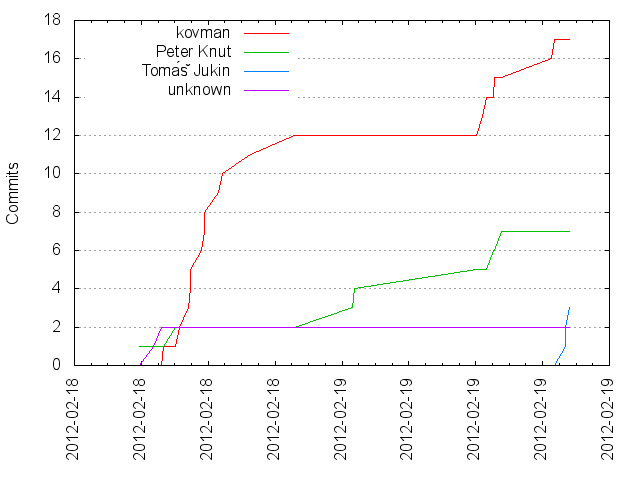
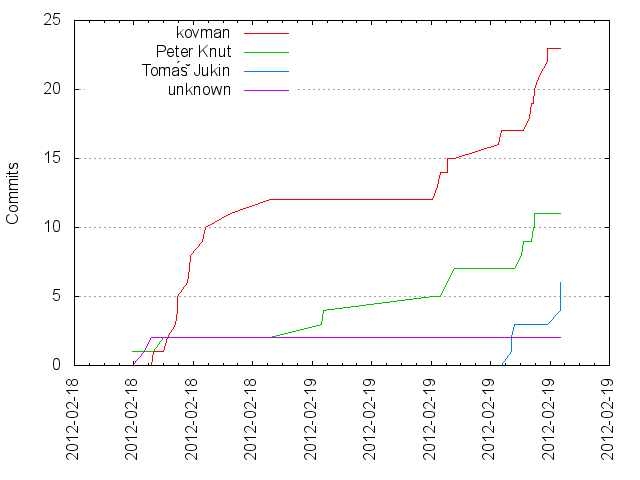
Generated git repository statistics

diff --git a/GADCPrague_stats/activity.html b/GADCPrague_stats/activity.html
@@ -4,7 +4,7 @@
 <head>
 	<title>GitStats - SuportaMasta</title>
 	<link rel="stylesheet" href="gitstats.css" type="text/css" />
-	<meta name="generator" content="GitStats 52a71b8" />
+	<meta name="generator" content="GitStats e5adfd1" />
 	<script type="text/javascript" src="sortable.js"></script>
 </head>
 <body>
@@ -22,27 +22,27 @@
 
 <h2><a href="#weekly_activity" name="weekly_activity">Weekly activity</a></h2>
 
-<p>Last 32 weeks</p><table class="noborders"><tr><td style="text-align: center; vertical-align: bottom">0<div style="display: block; background-color: red; width: 20px; height: 1px"></div></td><td style="text-align: center; vertical-align: bottom">0<div style="display: block; background-color: red; width: 20px; height: 1px"></div></td><td style="text-align: center; vertical-align: bottom">0<div style="display: block; background-color: red; width: 20px; height: 1px"></div></td><td style="text-align: center; vertical-align: bottom">0<div style="display: block; background-color: red; width: 20px; height: 1px"></div></td><td style="text-align: center; vertical-align: bottom">0<div style="display: block; background-color: red; width: 20px; height: 1px"></div></td><td style="text-align: center; vertical-align: bottom">0<div style="display: block; background-color: red; width: 20px; height: 1px"></div></td><td style="text-align: center; vertical-align: bottom">0<div style="display: block; background-color: red; width: 20px; height: 1px"></div></td><td style="text-align: center; vertical-align: bottom">0<div style="display: block; background-color: red; width: 20px; height: 1px"></div></td><td style="text-align: center; vertical-align: bottom">0<div style="display: block; background-color: red; width: 20px; height: 1px"></div></td><td style="text-align: center; vertical-align: bottom">0<div style="display: block; background-color: red; width: 20px; height: 1px"></div></td><td style="text-align: center; vertical-align: bottom">0<div style="display: block; background-color: red; width: 20px; height: 1px"></div></td><td style="text-align: center; vertical-align: bottom">0<div style="display: block; background-color: red; width: 20px; height: 1px"></div></td><td style="text-align: center; vertical-align: bottom">0<div style="display: block; background-color: red; width: 20px; height: 1px"></div></td><td style="text-align: center; vertical-align: bottom">0<div style="display: block; background-color: red; width: 20px; height: 1px"></div></td><td style="text-align: center; vertical-align: bottom">0<div style="display: block; background-color: red; width: 20px; height: 1px"></div></td><td style="text-align: center; vertical-align: bottom">0<div style="display: block; background-color: red; width: 20px; height: 1px"></div></td><td style="text-align: center; vertical-align: bottom">0<div style="display: block; background-color: red; width: 20px; height: 1px"></div></td><td style="text-align: center; vertical-align: bottom">0<div style="display: block; background-color: red; width: 20px; height: 1px"></div></td><td style="text-align: center; vertical-align: bottom">0<div style="display: block; background-color: red; width: 20px; height: 1px"></div></td><td style="text-align: center; vertical-align: bottom">0<div style="display: block; background-color: red; width: 20px; height: 1px"></div></td><td style="text-align: center; vertical-align: bottom">0<div style="display: block; background-color: red; width: 20px; height: 1px"></div></td><td style="text-align: center; vertical-align: bottom">0<div style="display: block; background-color: red; width: 20px; height: 1px"></div></td><td style="text-align: center; vertical-align: bottom">0<div style="display: block; background-color: red; width: 20px; height: 1px"></div></td><td style="text-align: center; vertical-align: bottom">0<div style="display: block; background-color: red; width: 20px; height: 1px"></div></td><td style="text-align: center; vertical-align: bottom">0<div style="display: block; background-color: red; width: 20px; height: 1px"></div></td><td style="text-align: center; vertical-align: bottom">0<div style="display: block; background-color: red; width: 20px; height: 1px"></div></td><td style="text-align: center; vertical-align: bottom">0<div style="display: block; background-color: red; width: 20px; height: 1px"></div></td><td style="text-align: center; vertical-align: bottom">0<div style="display: block; background-color: red; width: 20px; height: 1px"></div></td><td style="text-align: center; vertical-align: bottom">0<div style="display: block; background-color: red; width: 20px; height: 1px"></div></td><td style="text-align: center; vertical-align: bottom">0<div style="display: block; background-color: red; width: 20px; height: 1px"></div></td><td style="text-align: center; vertical-align: bottom">0<div style="display: block; background-color: red; width: 20px; height: 1px"></div></td><td style="text-align: center; vertical-align: bottom">29<div style="display: block; background-color: red; width: 20px; height: 200px"></div></td></tr><tr><td>32</td><td>31</td><td>30</td><td>29</td><td>28</td><td>27</td><td>26</td><td>25</td><td>24</td><td>23</td><td>22</td><td>21</td><td>20</td><td>19</td><td>18</td><td>17</td><td>16</td><td>15</td><td>14</td><td>13</td><td>12</td><td>11</td><td>10</td><td>9</td><td>8</td><td>7</td><td>6</td><td>5</td><td>4</td><td>3</td><td>2</td><td>1</td></tr></table>
+<p>Last 32 weeks</p><table class="noborders"><tr><td style="text-align: center; vertical-align: bottom">0<div style="display: block; background-color: red; width: 20px; height: 1px"></div></td><td style="text-align: center; vertical-align: bottom">0<div style="display: block; background-color: red; width: 20px; height: 1px"></div></td><td style="text-align: center; vertical-align: bottom">0<div style="display: block; background-color: red; width: 20px; height: 1px"></div></td><td style="text-align: center; vertical-align: bottom">0<div style="display: block; background-color: red; width: 20px; height: 1px"></div></td><td style="text-align: center; vertical-align: bottom">0<div style="display: block; background-color: red; width: 20px; height: 1px"></div></td><td style="text-align: center; vertical-align: bottom">0<div style="display: block; background-color: red; width: 20px; height: 1px"></div></td><td style="text-align: center; vertical-align: bottom">0<div style="display: block; background-color: red; width: 20px; height: 1px"></div></td><td style="text-align: center; vertical-align: bottom">0<div style="display: block; background-color: red; width: 20px; height: 1px"></div></td><td style="text-align: center; vertical-align: bottom">0<div style="display: block; background-color: red; width: 20px; height: 1px"></div></td><td style="text-align: center; vertical-align: bottom">0<div style="display: block; background-color: red; width: 20px; height: 1px"></div></td><td style="text-align: center; vertical-align: bottom">0<div style="display: block; background-color: red; width: 20px; height: 1px"></div></td><td style="text-align: center; vertical-align: bottom">0<div style="display: block; background-color: red; width: 20px; height: 1px"></div></td><td style="text-align: center; vertical-align: bottom">0<div style="display: block; background-color: red; width: 20px; height: 1px"></div></td><td style="text-align: center; vertical-align: bottom">0<div style="display: block; background-color: red; width: 20px; height: 1px"></div></td><td style="text-align: center; vertical-align: bottom">0<div style="display: block; background-color: red; width: 20px; height: 1px"></div></td><td style="text-align: center; vertical-align: bottom">0<div style="display: block; background-color: red; width: 20px; height: 1px"></div></td><td style="text-align: center; vertical-align: bottom">0<div style="display: block; background-color: red; width: 20px; height: 1px"></div></td><td style="text-align: center; vertical-align: bottom">0<div style="display: block; background-color: red; width: 20px; height: 1px"></div></td><td style="text-align: center; vertical-align: bottom">0<div style="display: block; background-color: red; width: 20px; height: 1px"></div></td><td style="text-align: center; vertical-align: bottom">0<div style="display: block; background-color: red; width: 20px; height: 1px"></div></td><td style="text-align: center; vertical-align: bottom">0<div style="display: block; background-color: red; width: 20px; height: 1px"></div></td><td style="text-align: center; vertical-align: bottom">0<div style="display: block; background-color: red; width: 20px; height: 1px"></div></td><td style="text-align: center; vertical-align: bottom">0<div style="display: block; background-color: red; width: 20px; height: 1px"></div></td><td style="text-align: center; vertical-align: bottom">0<div style="display: block; background-color: red; width: 20px; height: 1px"></div></td><td style="text-align: center; vertical-align: bottom">0<div style="display: block; background-color: red; width: 20px; height: 1px"></div></td><td style="text-align: center; vertical-align: bottom">0<div style="display: block; background-color: red; width: 20px; height: 1px"></div></td><td style="text-align: center; vertical-align: bottom">0<div style="display: block; background-color: red; width: 20px; height: 1px"></div></td><td style="text-align: center; vertical-align: bottom">0<div style="display: block; background-color: red; width: 20px; height: 1px"></div></td><td style="text-align: center; vertical-align: bottom">0<div style="display: block; background-color: red; width: 20px; height: 1px"></div></td><td style="text-align: center; vertical-align: bottom">0<div style="display: block; background-color: red; width: 20px; height: 1px"></div></td><td style="text-align: center; vertical-align: bottom">0<div style="display: block; background-color: red; width: 20px; height: 1px"></div></td><td style="text-align: center; vertical-align: bottom">42<div style="display: block; background-color: red; width: 20px; height: 200px"></div></td></tr><tr><td>32</td><td>31</td><td>30</td><td>29</td><td>28</td><td>27</td><td>26</td><td>25</td><td>24</td><td>23</td><td>22</td><td>21</td><td>20</td><td>19</td><td>18</td><td>17</td><td>16</td><td>15</td><td>14</td><td>13</td><td>12</td><td>11</td><td>10</td><td>9</td><td>8</td><td>7</td><td>6</td><td>5</td><td>4</td><td>3</td><td>2</td><td>1</td></tr></table>
 <h2><a href="#hour_of_day" name="hour_of_day">Hour of Day</a></h2>
 
 <table><tr><th>Hour</th><th>0</th><th>1</th><th>2</th><th>3</th><th>4</th><th>5</th><th>6</th><th>7</th><th>8</th><th>9</th><th>10</th><th>11</th><th>12</th><th>13</th><th>14</th><th>15</th><th>16</th><th>17</th><th>18</th><th>19</th><th>20</th><th>21</th><th>22</th><th>23</th></tr>
-<tr><th>Commits</th><td>0</td><td style="background-color: rgb(178, 0, 0)">2</td><td>0</td><td>0</td><td>0</td><td>0</td><td>0</td><td>0</td><td>0</td><td style="background-color: rgb(203, 0, 0)">3</td><td style="background-color: rgb(203, 0, 0)">3</td><td>0</td><td style="background-color: rgb(152, 0, 0)">1</td><td style="background-color: rgb(203, 0, 0)">3</td><td style="background-color: rgb(255, 0, 0)">5</td><td style="background-color: rgb(255, 0, 0)">5</td><td style="background-color: rgb(203, 0, 0)">3</td><td style="background-color: rgb(178, 0, 0)">2</td><td>0</td><td style="background-color: rgb(152, 0, 0)">1</td><td>0</td><td>0</td><td style="background-color: rgb(152, 0, 0)">1</td><td>0</td></tr>
-<tr><th>%</th><td>0.00</td><td style="background-color: rgb(178, 0, 0)">6.90</td><td>0.00</td><td>0.00</td><td>0.00</td><td>0.00</td><td>0.00</td><td>0.00</td><td>0.00</td><td style="background-color: rgb(203, 0, 0)">10.34</td><td style="background-color: rgb(203, 0, 0)">10.34</td><td>0.00</td><td style="background-color: rgb(152, 0, 0)">3.45</td><td style="background-color: rgb(203, 0, 0)">10.34</td><td style="background-color: rgb(255, 0, 0)">17.24</td><td style="background-color: rgb(255, 0, 0)">17.24</td><td style="background-color: rgb(203, 0, 0)">10.34</td><td style="background-color: rgb(178, 0, 0)">6.90</td><td>0.00</td><td style="background-color: rgb(152, 0, 0)">3.45</td><td>0.00</td><td>0.00</td><td style="background-color: rgb(152, 0, 0)">3.45</td><td>0.00</td></tr></table><img src="hour_of_day.png" alt="Hour of Day" />
+<tr><th>Commits</th><td>0</td><td style="background-color: rgb(148, 0, 0)">2</td><td>0</td><td>0</td><td>0</td><td>0</td><td>0</td><td>0</td><td>0</td><td style="background-color: rgb(159, 0, 0)">3</td><td style="background-color: rgb(159, 0, 0)">3</td><td>0</td><td style="background-color: rgb(137, 0, 0)">1</td><td style="background-color: rgb(159, 0, 0)">3</td><td style="background-color: rgb(180, 0, 0)">5</td><td style="background-color: rgb(255, 0, 0)">12</td><td style="background-color: rgb(191, 0, 0)">6</td><td style="background-color: rgb(180, 0, 0)">5</td><td>0</td><td style="background-color: rgb(137, 0, 0)">1</td><td>0</td><td>0</td><td style="background-color: rgb(137, 0, 0)">1</td><td>0</td></tr>
+<tr><th>%</th><td>0.00</td><td style="background-color: rgb(148, 0, 0)">4.76</td><td>0.00</td><td>0.00</td><td>0.00</td><td>0.00</td><td>0.00</td><td>0.00</td><td>0.00</td><td style="background-color: rgb(159, 0, 0)">7.14</td><td style="background-color: rgb(159, 0, 0)">7.14</td><td>0.00</td><td style="background-color: rgb(137, 0, 0)">2.38</td><td style="background-color: rgb(159, 0, 0)">7.14</td><td style="background-color: rgb(180, 0, 0)">11.90</td><td style="background-color: rgb(255, 0, 0)">28.57</td><td style="background-color: rgb(191, 0, 0)">14.29</td><td style="background-color: rgb(180, 0, 0)">11.90</td><td>0.00</td><td style="background-color: rgb(137, 0, 0)">2.38</td><td>0.00</td><td>0.00</td><td style="background-color: rgb(137, 0, 0)">2.38</td><td>0.00</td></tr></table><img src="hour_of_day.png" alt="Hour of Day" />
 <h2><a href="#day_of_week" name="day_of_week">Day of Week</a></h2>
 
-<div class="vtable"><table><tr><th>Day</th><th>Total (%)</th></tr><tr><th>Mon</th><td>0</td></tr><tr><th>Tue</th><td>0</td></tr><tr><th>Wed</th><td>0</td></tr><tr><th>Thu</th><td>0</td></tr><tr><th>Fri</th><td>0</td></tr><tr><th>Sat</th><td>16 (55.17%)</td></tr><tr><th>Sun</th><td>13 (44.83%)</td></tr></table></div><img src="day_of_week.png" alt="Day of Week" />
+<div class="vtable"><table><tr><th>Day</th><th>Total (%)</th></tr><tr><th>Mon</th><td>0</td></tr><tr><th>Tue</th><td>0</td></tr><tr><th>Wed</th><td>0</td></tr><tr><th>Thu</th><td>0</td></tr><tr><th>Fri</th><td>0</td></tr><tr><th>Sat</th><td>16 (38.10%)</td></tr><tr><th>Sun</th><td>26 (61.90%)</td></tr></table></div><img src="day_of_week.png" alt="Day of Week" />
 <h2><a href="#hour_of_week" name="hour_of_week">Hour of Week</a></h2>
 
-<table><tr><th>Weekday</th><th>0</th><th>1</th><th>2</th><th>3</th><th>4</th><th>5</th><th>6</th><th>7</th><th>8</th><th>9</th><th>10</th><th>11</th><th>12</th><th>13</th><th>14</th><th>15</th><th>16</th><th>17</th><th>18</th><th>19</th><th>20</th><th>21</th><th>22</th><th>23</th></tr><tr><th>Mon</th><td></td><td></td><td></td><td></td><td></td><td></td><td></td><td></td><td></td><td></td><td></td><td></td><td></td><td></td><td></td><td></td><td></td><td></td><td></td><td></td><td></td><td></td><td></td><td></td></tr><tr><th>Tue</th><td></td><td></td><td></td><td></td><td></td><td></td><td></td><td></td><td></td><td></td><td></td><td></td><td></td><td></td><td></td><td></td><td></td><td></td><td></td><td></td><td></td><td></td><td></td><td></td></tr><tr><th>Wed</th><td></td><td></td><td></td><td></td><td></td><td></td><td></td><td></td><td></td><td></td><td></td><td></td><td></td><td></td><td></td><td></td><td></td><td></td><td></td><td></td><td></td><td></td><td></td><td></td></tr><tr><th>Thu</th><td></td><td></td><td></td><td></td><td></td><td></td><td></td><td></td><td></td><td></td><td></td><td></td><td></td><td></td><td></td><td></td><td></td><td></td><td></td><td></td><td></td><td></td><td></td><td></td></tr><tr><th>Fri</th><td></td><td></td><td></td><td></td><td></td><td></td><td></td><td></td><td></td><td></td><td></td><td></td><td></td><td></td><td></td><td></td><td></td><td></td><td></td><td></td><td></td><td></td><td></td><td></td></tr><tr><th>Sat</th><td></td><td></td><td></td><td></td><td></td><td></td><td></td><td></td><td></td><td></td><td></td><td></td><td style="background-color: rgb(152, 0, 0)">1</td><td style="background-color: rgb(152, 0, 0)">1</td><td style="background-color: rgb(178, 0, 0)">2</td><td style="background-color: rgb(255, 0, 0)">5</td><td style="background-color: rgb(203, 0, 0)">3</td><td style="background-color: rgb(178, 0, 0)">2</td><td></td><td style="background-color: rgb(152, 0, 0)">1</td><td></td><td></td><td style="background-color: rgb(152, 0, 0)">1</td><td></td></tr><tr><th>Sun</th><td></td><td style="background-color: rgb(178, 0, 0)">2</td><td></td><td></td><td></td><td></td><td></td><td></td><td></td><td style="background-color: rgb(203, 0, 0)">3</td><td style="background-color: rgb(203, 0, 0)">3</td><td></td><td></td><td style="background-color: rgb(178, 0, 0)">2</td><td style="background-color: rgb(203, 0, 0)">3</td><td></td><td></td><td></td><td></td><td></td><td></td><td></td><td></td><td></td></tr></table>
+<table><tr><th>Weekday</th><th>0</th><th>1</th><th>2</th><th>3</th><th>4</th><th>5</th><th>6</th><th>7</th><th>8</th><th>9</th><th>10</th><th>11</th><th>12</th><th>13</th><th>14</th><th>15</th><th>16</th><th>17</th><th>18</th><th>19</th><th>20</th><th>21</th><th>22</th><th>23</th></tr><tr><th>Mon</th><td></td><td></td><td></td><td></td><td></td><td></td><td></td><td></td><td></td><td></td><td></td><td></td><td></td><td></td><td></td><td></td><td></td><td></td><td></td><td></td><td></td><td></td><td></td><td></td></tr><tr><th>Tue</th><td></td><td></td><td></td><td></td><td></td><td></td><td></td><td></td><td></td><td></td><td></td><td></td><td></td><td></td><td></td><td></td><td></td><td></td><td></td><td></td><td></td><td></td><td></td><td></td></tr><tr><th>Wed</th><td></td><td></td><td></td><td></td><td></td><td></td><td></td><td></td><td></td><td></td><td></td><td></td><td></td><td></td><td></td><td></td><td></td><td></td><td></td><td></td><td></td><td></td><td></td><td></td></tr><tr><th>Thu</th><td></td><td></td><td></td><td></td><td></td><td></td><td></td><td></td><td></td><td></td><td></td><td></td><td></td><td></td><td></td><td></td><td></td><td></td><td></td><td></td><td></td><td></td><td></td><td></td></tr><tr><th>Fri</th><td></td><td></td><td></td><td></td><td></td><td></td><td></td><td></td><td></td><td></td><td></td><td></td><td></td><td></td><td></td><td></td><td></td><td></td><td></td><td></td><td></td><td></td><td></td><td></td></tr><tr><th>Sat</th><td></td><td></td><td></td><td></td><td></td><td></td><td></td><td></td><td></td><td></td><td></td><td></td><td style="background-color: rgb(145, 0, 0)">1</td><td style="background-color: rgb(145, 0, 0)">1</td><td style="background-color: rgb(163, 0, 0)">2</td><td style="background-color: rgb(218, 0, 0)">5</td><td style="background-color: rgb(181, 0, 0)">3</td><td style="background-color: rgb(163, 0, 0)">2</td><td></td><td style="background-color: rgb(145, 0, 0)">1</td><td></td><td></td><td style="background-color: rgb(145, 0, 0)">1</td><td></td></tr><tr><th>Sun</th><td></td><td style="background-color: rgb(163, 0, 0)">2</td><td></td><td></td><td></td><td></td><td></td><td></td><td></td><td style="background-color: rgb(181, 0, 0)">3</td><td style="background-color: rgb(181, 0, 0)">3</td><td></td><td></td><td style="background-color: rgb(163, 0, 0)">2</td><td style="background-color: rgb(181, 0, 0)">3</td><td style="background-color: rgb(255, 0, 0)">7</td><td style="background-color: rgb(181, 0, 0)">3</td><td style="background-color: rgb(181, 0, 0)">3</td><td></td><td></td><td></td><td></td><td></td><td></td></tr></table>
 <h2><a href="#month_of_year" name="month_of_year">Month of Year</a></h2>
 
-<div class="vtable"><table><tr><th>Month</th><th>Commits (%)</th></tr><tr><td>1</td><td>0 (0.00 %)</td></tr><tr><td>2</td><td>29 (100.00 %)</td></tr><tr><td>3</td><td>0 (0.00 %)</td></tr><tr><td>4</td><td>0 (0.00 %)</td></tr><tr><td>5</td><td>0 (0.00 %)</td></tr><tr><td>6</td><td>0 (0.00 %)</td></tr><tr><td>7</td><td>0 (0.00 %)</td></tr><tr><td>8</td><td>0 (0.00 %)</td></tr><tr><td>9</td><td>0 (0.00 %)</td></tr><tr><td>10</td><td>0 (0.00 %)</td></tr><tr><td>11</td><td>0 (0.00 %)</td></tr><tr><td>12</td><td>0 (0.00 %)</td></tr></table></div><img src="month_of_year.png" alt="Month of Year" />
+<div class="vtable"><table><tr><th>Month</th><th>Commits (%)</th></tr><tr><td>1</td><td>0 (0.00 %)</td></tr><tr><td>2</td><td>42 (100.00 %)</td></tr><tr><td>3</td><td>0 (0.00 %)</td></tr><tr><td>4</td><td>0 (0.00 %)</td></tr><tr><td>5</td><td>0 (0.00 %)</td></tr><tr><td>6</td><td>0 (0.00 %)</td></tr><tr><td>7</td><td>0 (0.00 %)</td></tr><tr><td>8</td><td>0 (0.00 %)</td></tr><tr><td>9</td><td>0 (0.00 %)</td></tr><tr><td>10</td><td>0 (0.00 %)</td></tr><tr><td>11</td><td>0 (0.00 %)</td></tr><tr><td>12</td><td>0 (0.00 %)</td></tr></table></div><img src="month_of_year.png" alt="Month of Year" />
 <h2><a href="#commits_by_year/month" name="commits_by_year/month">Commits by year/month</a></h2>
 
-<div class="vtable"><table><tr><th>Month</th><th>Commits</th><th>Lines added</th><th>Lines removed</th></tr><tr><td>2012-02</td><td>29</td><td>2555</td><td>458</td></tr></table></div><img src="commits_by_year_month.png" alt="Commits by year/month" />
+<div class="vtable"><table><tr><th>Month</th><th>Commits</th><th>Lines added</th><th>Lines removed</th></tr><tr><td>2012-02</td><td>42</td><td>3009</td><td>635</td></tr></table></div><img src="commits_by_year_month.png" alt="Commits by year/month" />
 <h2><a href="#commits_by_year" name="commits_by_year">Commits by Year</a></h2>
 
-<div class="vtable"><table><tr><th>Year</th><th>Commits (% of all)</th><th>Lines added</th><th>Lines removed</th></tr><tr><td>2012</td><td>29 (100.00%)</td><td>2555</td><td>458</td></tr></table></div><img src="commits_by_year.png" alt="Commits by Year" />
+<div class="vtable"><table><tr><th>Year</th><th>Commits (% of all)</th><th>Lines added</th><th>Lines removed</th></tr><tr><td>2012</td><td>42 (100.00%)</td><td>3009</td><td>635</td></tr></table></div><img src="commits_by_year.png" alt="Commits by Year" />
 <h2><a href="#commits_by_timezone" name="commits_by_timezone">Commits by Timezone</a></h2>
 
-<table><tr><th>Timezone</th><th>Commits</th><tr><th>+0100</th><td style="background-color: rgb(255, 0, 0)">29</td></tr></tr></table></body></html>
+<table><tr><th>Timezone</th><th>Commits</th><tr><th>+0100</th><td style="background-color: rgb(255, 0, 0)">42</td></tr></tr></table></body></html>

diff --git a/GADCPrague_stats/authors.html b/GADCPrague_stats/authors.html
@@ -4,7 +4,7 @@
 <head>
 	<title>GitStats - SuportaMasta</title>
 	<link rel="stylesheet" href="gitstats.css" type="text/css" />
-	<meta name="generator" content="GitStats 52a71b8" />
+	<meta name="generator" content="GitStats e5adfd1" />
 	<script type="text/javascript" src="sortable.js"></script>
 </head>
 <body>
@@ -22,7 +22,7 @@
 
 <h2><a href="#list_of_authors" name="list_of_authors">List of Authors</a></h2>
 
-<table class="authors sortable" id="authors"><tr><th>Author</th><th>Commits (%)</th><th>+ lines</th><th>- lines</th><th>First commit</th><th>Last commit</th><th class="unsortable">Age</th><th>Active days</th><th># by commits</th></tr><tr><td>kovman</td><td>17 (58.62%)</td><td>977</td><td>224</td><td>2012-02-18</td><td>2012-02-19</td><td>23:26:25</td><td>2</td><td>1</td></tr><tr><td>Peter Knut</td><td>7 (24.14%)</td><td>703</td><td>49</td><td>2012-02-18</td><td>2012-02-19</td><td>21:40:20</td><td>2</td><td>2</td></tr><tr><td>Tomáš Jukin</td><td>3 (10.34%)</td><td>898</td><td>0</td><td>2012-02-19</td><td>2012-02-19</td><td>0:13:14</td><td>1</td><td>3</td></tr><tr><td>unknown</td><td>2 (6.90%)</td><td>1</td><td>209</td><td>2012-02-18</td><td>2012-02-18</td><td>0:28:38</td><td>1</td><td>4</td></tr></table>
+<table class="authors sortable" id="authors"><tr><th>Author</th><th>Commits (%)</th><th>+ lines</th><th>- lines</th><th>First commit</th><th>Last commit</th><th class="unsortable">Age</th><th>Active days</th><th># by commits</th></tr><tr><td>kovman</td><td>23 (54.76%)</td><td>1276</td><td>386</td><td>2012-02-18</td><td>2012-02-19</td><td>1 day, 2:33:01</td><td>2</td><td>1</td></tr><tr><td>Peter Knut</td><td>11 (26.19%)</td><td>775</td><td>78</td><td>2012-02-18</td><td>2012-02-19</td><td>1 day, 3:04:29</td><td>2</td><td>2</td></tr><tr><td>Tomáš Jukin</td><td>6 (14.29%)</td><td>999</td><td>77</td><td>2012-02-19</td><td>2012-02-19</td><td>3:20:19</td><td>1</td><td>3</td></tr><tr><td>unknown</td><td>2 (4.76%)</td><td>1</td><td>209</td><td>2012-02-18</td><td>2012-02-18</td><td>0:28:38</td><td>1</td><td>4</td></tr></table>
 <h2><a href="#cumulated_added_lines_of_code_per_author" name="cumulated_added_lines_of_code_per_author">Cumulated Added Lines of Code per Author</a></h2>
 
 <img src="lines_of_code_by_author.png" alt="Lines of code per Author" />
@@ -31,10 +31,10 @@
 <img src="commits_by_author.png" alt="Commits per Author" />
 <h2><a href="#author_of_month" name="author_of_month">Author of Month</a></h2>
 
-<table class="sortable" id="aom"><tr><th>Month</th><th>Author</th><th>Commits (%)</th><th class="unsortable">Next top 5</th><th>Number of authors</th></tr><tr><td>2012-02</td><td>kovman</td><td>17 (58.62% of 29)</td><td>Peter Knut, Tomáš Jukin, unknown</td><td>4</td></tr></table>
+<table class="sortable" id="aom"><tr><th>Month</th><th>Author</th><th>Commits (%)</th><th class="unsortable">Next top 5</th><th>Number of authors</th></tr><tr><td>2012-02</td><td>kovman</td><td>23 (54.76% of 42)</td><td>Peter Knut, Tomáš Jukin, unknown</td><td>4</td></tr></table>
 <h2><a href="#author_of_year" name="author_of_year">Author of Year</a></h2>
 
-<table class="sortable" id="aoy"><tr><th>Year</th><th>Author</th><th>Commits (%)</th><th class="unsortable">Next top 5</th><th>Number of authors</th></tr><tr><td>2012</td><td>kovman</td><td>17 (58.62% of 29)</td><td>Peter Knut, Tomáš Jukin, unknown</td><td>4</td></tr></table>
+<table class="sortable" id="aoy"><tr><th>Year</th><th>Author</th><th>Commits (%)</th><th class="unsortable">Next top 5</th><th>Number of authors</th></tr><tr><td>2012</td><td>kovman</td><td>23 (54.76% of 42)</td><td>Peter Knut, Tomáš Jukin, unknown</td><td>4</td></tr></table>
 <h2><a href="#commits_by_domains" name="commits_by_domains">Commits by Domains</a></h2>
 
-<div class="vtable"><table><tr><th>Domains</th><th>Total (%)</th></tr><tr><th>centrum.cz</th><td>17 (58.62%)</td></tr><tr><th>ajtak.sk</th><td>7 (24.14%)</td></tr><tr><th>jukin.cz</th><td>3 (10.34%)</td></tr><tr><th>WIN-LVYM2SZQ895.(none)</th><td>2 (6.90%)</td></tr></table></div><img src="domains.png" alt="Commits by Domains" /></body></html>
+<div class="vtable"><table><tr><th>Domains</th><th>Total (%)</th></tr><tr><th>centrum.cz</th><td>23 (54.76%)</td></tr><tr><th>ajtak.sk</th><td>11 (26.19%)</td></tr><tr><th>jukin.cz</th><td>6 (14.29%)</td></tr><tr><th>WIN-LVYM2SZQ895.(none)</th><td>2 (4.76%)</td></tr></table></div><img src="domains.png" alt="Commits by Domains" /></body></html>

diff --git a/GADCPrague_stats/files.html b/GADCPrague_stats/files.html
@@ -4,7 +4,7 @@
 <head>
 	<title>GitStats - SuportaMasta</title>
 	<link rel="stylesheet" href="gitstats.css" type="text/css" />
-	<meta name="generator" content="GitStats 52a71b8" />
+	<meta name="generator" content="GitStats e5adfd1" />
 	<script type="text/javascript" src="sortable.js"></script>
 </head>
 <body>
@@ -20,11 +20,11 @@
 </ul>
 </div>
 <dl>
-<dt>Total files</dt><dd>83</dd><dt>Total lines</dt><dd>2097</dd><dt>Average file size</dt><dd>10423.13 bytes</dd></dl>
+<dt>Total files</dt><dd>83</dd><dt>Total lines</dt><dd>2374</dd><dt>Average file size</dt><dd>3672.80 bytes</dd></dl>
 
 <h2><a href="#file_count_by_date" name="file_count_by_date">File count by date</a></h2>
 
 <img src="files_by_date.png" alt="Files by Date" />
 <h2><a href="#extensions" name="extensions">Extensions</a></h2>
 
-<table class="sortable" id="ext"><tr><th>Extension</th><th>Files (%)</th><th>Lines (%)</th><th>Lines/file</th></tr><tr><td></td><td>3 (3.61%)</td><td>45 (2.15%)</td><td>15</td></tr><tr><td>cache</td><td>1 (1.20%)</td><td>7 (0.33%)</td><td>7</td></tr><tr><td>cfg</td><td>1 (1.20%)</td><td>40 (1.91%)</td><td>40</td></tr><tr><td>class</td><td>6 (7.23%)</td><td>55 (2.62%)</td><td>9</td></tr><tr><td>css</td><td>1 (1.20%)</td><td>145 (6.91%)</td><td>145</td></tr><tr><td>dat</td><td>10 (12.05%)</td><td>121 (5.77%)</td><td>12</td></tr><tr><td>gif</td><td>3 (3.61%)</td><td>6 (0.29%)</td><td>2</td></tr><tr><td>html</td><td>6 (7.23%)</td><td>184 (8.77%)</td><td>30</td></tr><tr><td>jar</td><td>1 (1.20%)</td><td>912 (43.49%)</td><td>912</td></tr><tr><td>java</td><td>13 (15.66%)</td><td>890 (42.44%)</td><td>68</td></tr><tr><td>js</td><td>1 (1.20%)</td><td>324 (15.45%)</td><td>324</td></tr><tr><td>mp4</td><td>1 (1.20%)</td><td>2239 (106.77%)</td><td>2239</td></tr><tr><td>plot</td><td>10 (12.05%)</td><td>118 (5.63%)</td><td>11</td></tr><tr><td>png</td><td>13 (15.66%)</td><td>257 (12.26%)</td><td>19</td></tr><tr><td>prefs</td><td>1 (1.20%)</td><td>5 (0.24%)</td><td>5</td></tr><tr><td>properties</td><td>1 (1.20%)</td><td>11 (0.52%)</td><td>11</td></tr><tr><td>txt</td><td>1 (1.20%)</td><td>8 (0.38%)</td><td>8</td></tr><tr><td>xml</td><td>10 (12.05%)</td><td>186 (8.87%)</td><td>18</td></tr></table></body></html>
+<table class="sortable" id="ext"><tr><th>Extension</th><th>Files (%)</th><th>Lines (%)</th><th>Lines/file</th></tr><tr><td></td><td>3 (3.61%)</td><td>47 (1.98%)</td><td>15</td></tr><tr><td>cache</td><td>1 (1.20%)</td><td>10 (0.42%)</td><td>10</td></tr><tr><td>cfg</td><td>1 (1.20%)</td><td>40 (1.68%)</td><td>40</td></tr><tr><td>class</td><td>4 (4.82%)</td><td>46 (1.94%)</td><td>11</td></tr><tr><td>css</td><td>1 (1.20%)</td><td>145 (6.11%)</td><td>145</td></tr><tr><td>dat</td><td>10 (12.05%)</td><td>145 (6.11%)</td><td>14</td></tr><tr><td>gif</td><td>3 (3.61%)</td><td>6 (0.25%)</td><td>2</td></tr><tr><td>html</td><td>6 (7.23%)</td><td>184 (7.75%)</td><td>30</td></tr><tr><td>jar</td><td>1 (1.20%)</td><td>912 (38.42%)</td><td>912</td></tr><tr><td>java</td><td>13 (15.66%)</td><td>1061 (44.69%)</td><td>81</td></tr><tr><td>js</td><td>1 (1.20%)</td><td>324 (13.65%)</td><td>324</td></tr><tr><td>mp4</td><td>1 (1.20%)</td><td>0 (0.00%)</td><td>0</td></tr><tr><td>plot</td><td>10 (12.05%)</td><td>118 (4.97%)</td><td>11</td></tr><tr><td>png</td><td>13 (15.66%)</td><td>209 (8.80%)</td><td>16</td></tr><tr><td>prefs</td><td>1 (1.20%)</td><td>5 (0.21%)</td><td>5</td></tr><tr><td>properties</td><td>1 (1.20%)</td><td>11 (0.46%)</td><td>11</td></tr><tr><td>txt</td><td>1 (1.20%)</td><td>11 (0.46%)</td><td>11</td></tr><tr><td>xml</td><td>12 (14.46%)</td><td>263 (11.08%)</td><td>21</td></tr></table></body></html>

diff --git a/GADCPrague_stats/index.html b/GADCPrague_stats/index.html
@@ -4,7 +4,7 @@
 <head>
 	<title>GitStats - SuportaMasta</title>
 	<link rel="stylesheet" href="gitstats.css" type="text/css" />
-	<meta name="generator" content="GitStats 52a71b8" />
+	<meta name="generator" content="GitStats e5adfd1" />
 	<script type="text/javascript" src="sortable.js"></script>
 </head>
 <body>
@@ -19,5 +19,5 @@
 <li><a href="tags.html">Tags</a></li>
 </ul>
 </div>
-<dl><dt>Project name</dt><dd>SuportaMasta</dd><dt>Generated</dt><dd>2012-02-19 17:40:39 (in 4 seconds)</dd><dt>Generator</dt><dd><a href="http://gitstats.sourceforge.net/">GitStats</a> (version 52a71b8), git version 1.7.1.1, gnuplot 4.4 patchlevel 4</dd><dt>Report Period</dt><dd>2012-02-18 12:53:51 to 2012-02-19 14:36:26</dd><dt>Age</dt><dd>2 days, 2 active days (100.00%)</dd><dt>Total Files</dt><dd>83</dd><dt>Total Lines of Code</dt><dd>2097 (2555 added, 458 removed)</dd><dt>Total Commits</dt><dd>29 (average 14.5 commits per active day, 14.5 per all days)</dd><dt>Authors</dt><dd>4 (average 7.2 commits per author)</dd></dl></body>
+<dl><dt>Project name</dt><dd>SuportaMasta</dd><dt>Generated</dt><dd>2012-02-19 17:48:58 (in 5 seconds)</dd><dt>Generator</dt><dd><a href="http://gitstats.sourceforge.net/">GitStats</a> (version e5adfd1), git version 1.7.1.1, gnuplot 4.4 patchlevel 4</dd><dt>Report Period</dt><dd>2012-02-18 12:53:51 to 2012-02-19 17:43:31</dd><dt>Age</dt><dd>2 days, 2 active days (100.00%)</dd><dt>Total Files</dt><dd>83</dd><dt>Total Lines of Code</dt><dd>2374 (3009 added, 635 removed)</dd><dt>Total Commits</dt><dd>42 (average 21.0 commits per active day, 21.0 per all days)</dd><dt>Authors</dt><dd>4 (average 10.5 commits per author)</dd></dl></body>
 </html>

diff --git a/GADCPrague_stats/lines.html b/GADCPrague_stats/lines.html
@@ -4,7 +4,7 @@
 <head>
 	<title>GitStats - SuportaMasta</title>
 	<link rel="stylesheet" href="gitstats.css" type="text/css" />
-	<meta name="generator" content="GitStats 52a71b8" />
+	<meta name="generator" content="GitStats e5adfd1" />
 	<script type="text/javascript" src="sortable.js"></script>
 </head>
 <body>
@@ -20,7 +20,7 @@
 </ul>
 </div>
 <dl>
-<dt>Total lines</dt><dd>2097</dd></dl>
+<dt>Total lines</dt><dd>2374</dd></dl>
 
 <h2><a href="#lines_of_code" name="lines_of_code">Lines of Code</a></h2>
 

diff --git a/GADCPrague_stats/tags.html b/GADCPrague_stats/tags.html
@@ -4,7 +4,7 @@
 <head>
 	<title>GitStats - SuportaMasta</title>
 	<link rel="stylesheet" href="gitstats.css" type="text/css" />
-	<meta name="generator" content="GitStats 52a71b8" />
+	<meta name="generator" content="GitStats e5adfd1" />
 	<script type="text/javascript" src="sortable.js"></script>
 </head>
 <body>
